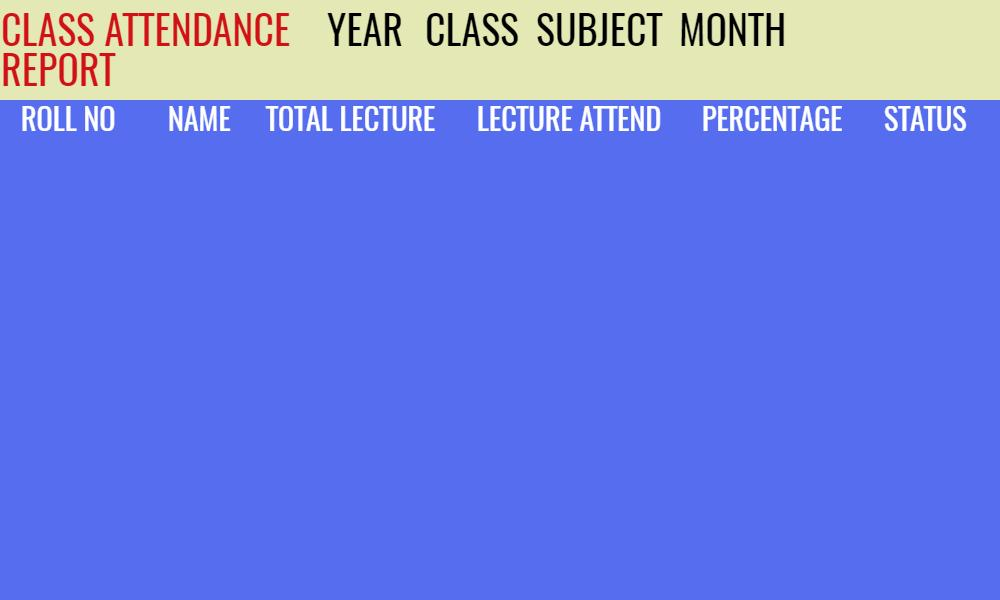
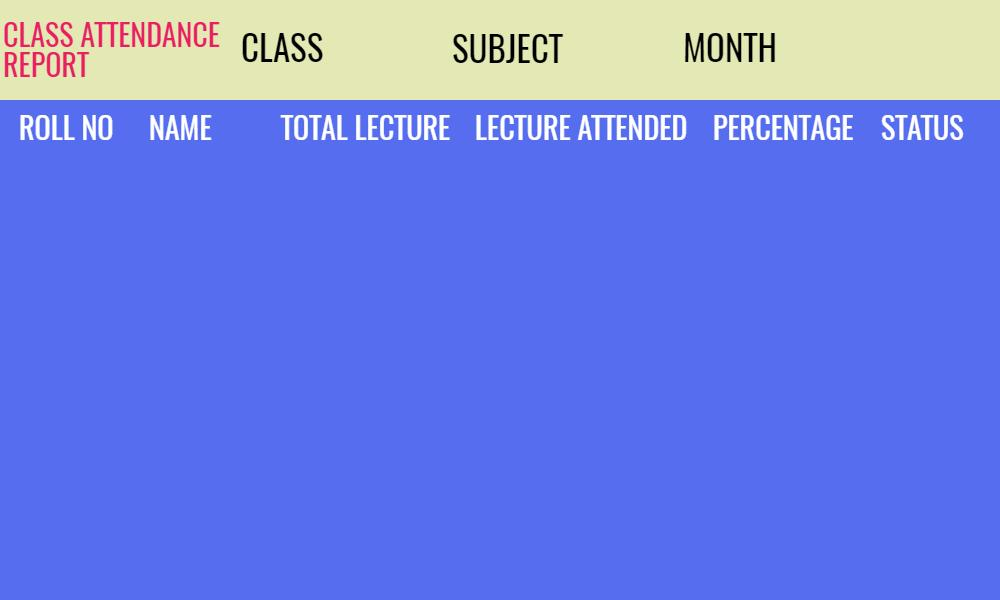
change in image and added other database work

Changed region(s): [[0.0, 0.0, 0.992, 0.24]]

diff --git a/Python_project.py b/Python_project.py
@@ -4,7 +4,9 @@ import mysql.connector
 import fnmatch
 import mysql
 R=Tk()
-    
+
+#--------- CHANGES TO BE DONE OF LINE NUMBER 162------------
+ 
 def new_class(teacher_id):
     
     new_class_frame = Tk()
@@ -95,7 +97,7 @@ def new_class(teacher_id):
     button_home.place(x=900,y=100)
     new_class_frame.mainloop()
 
-    
+#===========================================Pranali(changes to be done here )============================================================    
 def studentReport(teacher_id):
     studentReport_frame = Tk()
     studentReport_frame.resizable(width=FALSE, height=FALSE)
@@ -107,19 +109,169 @@ def studentReport(teacher_id):
     image=ImageTk.PhotoImage(Image_open)
     logo=Label(studentReport_frame,image=image)
     logo.place(x=0,y=0,bordermode="outside")
+
+    data=[]
+    classes=[]
+    li=[]
+    get_class= ''
+    get_month=''
+    get_subject=''
+    #table_frame = Frame(studentReport_frame,height=400,width=800,bg="#3463FF")
+    #table_frame.pack()
+    
+    month= ['JANUARY',
+            'FEBRUARY',
+            'MARCH',
+            'APRIL',
+            'MAY',
+            'JUNE',
+            'JULY',
+            'AUGUST',
+            'SEPTEMBER',
+            'OCTOBER',
+            'NOVEMBER',
+            'DECEMBER',]
+
+   
+    
     def home():
         studentReport_frame.destroy()
         sec_frame(teacher_id)
     
     def search():
-        #-------------------database work----------------------
-        pass
+        global get_class
+        global get_month
+        global get_subject
+        
+            
+
+        
+        try:
+            conn = mysql.connector.connect(host='localhost',database=get_class,user='root',password='root@123')
+            cursor = conn.cursor()
+            statement="select Rollno,Total_Attendance,Attendance from attendance where month= '{0}' and Subject = '{1}'".format(get_month,get_subject)
+            cursor.execute(statement)
+            rows = cursor.fetchall()
+            for row in rows:
+                try:
+                    conn1 = mysql.connector.connect(host='localhost',database=get_class,user='root',password='root@123')
+                    cursor1 = conn1.cursor()
+                    statement1="select name from student where Rollno = {0}".format(row[0])
+                    cursor1.execute(statement1)
+                    name = cursor1.fetchone()
+                    print(name)
+                    print(row[0])
+                #=================================== TABLE GOES HERE =====================================
+                #-------------- row[0] = Rollno, name[0]=name, row[1]=Total Attendance, row[2]=Lecture Attend ---------------------------
+
+                #--------------- make function for calculating Percentage and status ----------------------------------
+
+
+                
+
+                #----------------------- END OF TABLE
+                except:
+                    conn1.rollback()
+                finally:
+                    cursor1.close()
+                    conn1.close()            
+        except:
+            conn.rollback()
+            print("rollnack")
+        finally:
+            cursor.close()
+            conn.close()
+        
+
+    def func_sub(value):
+        global get_subject
+        get_subject = value
+
+
+    def func_month(value):
+        global get_month
+        get_month = value
+        
+    def func(value):
+        global  get_class
+        get_class=value
+        sub = value.split('_')
+        global li
+        li=[]
+        try:
+            conn1 = mysql.connector.connect(host='localhost',database='login',user='root',password='root@123')
+            cursor1 =  conn1.cursor()
+            statement = "select subject from subject_teacher where teacher_id = {0} and class = '{1}' and year = {2}".format(teacher_id,sub[1].upper(),sub[0])
+            cursor1.execute(statement)
+            rows = cursor1.fetchall()
+            for row in rows:
+                print("hell")
+                li.append(row[0])
+            print(li)
+        except:
+            conn1.rollback()
+            print("rollback")
+            
+        finally:
+            if(li):
+                subject = StringVar()
+                #variable.set(classes[0])
+                subject_menu = OptionMenu(studentReport_frame, subject, *li,command=func_sub)
+                subject_menu.config(width=8,font=('arial',12,'bold'))
+                subject_menu.place(x=568,y=32)
+            else:
+                label_roll = Label(newAttendance_frame,font=('arial',12,'bold'),bg="#566DEF",fg="#F00",text="You don't have any subject in this class")
+                label_roll.place(x=400,y=400)
+            
+            cursor1.close()
+            conn1.close()
+
+        
+
+    
+    try:
+        conn = mysql.connector.connect(host='localhost',user='root',password='root@123')
+        cursor =  conn.cursor()
+        statement = "show databases"
+        cursor.execute(statement)
+        rows = cursor.fetchall()
+    except:
+        conn.rollback()
+        print("roll")
+    finally:
+        for row in rows:
+            filtered = fnmatch.filter(row, '20*')
+            if filtered !=[]:
+                data.append(filtered)
+            
+        for i,d in enumerate(data):
+            classes.append(d[0])
+        cursor.close()
+        conn.close()
+
+    monthvar = StringVar()
+    #variable.set(classes[0])
+    month_menu = OptionMenu(studentReport_frame, monthvar, *month,command=func_month)
+    month_menu.config(width=7,font=('arial',9,'bold'))
+    month_menu.place(x=790,y=33)
+    
+    variable = StringVar()
+    #variable.set(classes[0])
+    
+    class_menu = OptionMenu(studentReport_frame, variable, *classes,command=func)
+    class_menu.config(width=7,font=('arial',12,'bold'))
+    class_menu.place(x=330,y=32)
+
+
+    
     button_search = Button(studentReport_frame, text="SEARCH",width=8,height=1,fg="#000",bg="#566DEF",font=('arial',13,'bold'),activebackground='#566DEF',command=search)
-    button_search.place(x=800,y=13)
+    button_search.place(x=900,y=33)
 
     button_home = Button(studentReport_frame, text="HOME",width=6,height=1,fg="#000",bg="#566DEF",font=('arial',13,'bold'),activebackground='#566DEF',command=home)
     button_home.place(x=890,y=13)
     studentReport_frame.mainloop()
+
+#===========================================pranali============================================================   
 
 def newAttendance(teacher_id):
     newAttendance_frame = Tk()
@@ -317,7 +469,9 @@ def newStudent(teacher_id):
     image1=ImageTk.PhotoImage(Image_open1)
     logo1=Label(newStudent_frame,image=image1)
     logo1.place(x=200,y=200,bordermode="outside")
-    
+
+
+#================================= Pranali Year Class database ============================================    
     data=[]
     classes=[]
     try:
@@ -339,13 +493,12 @@ def newStudent(teacher_id):
             classes.append(d[0])
         cursor.close()
         conn.close()
-
+#================================= Pranali Year Class database ============================================ 
          
     def home():
         newStudent_frame.destroy()
         sec_frame(teacher_id)
-
-    
+   
     
     
     entry_fname = Entry(newStudent_frame,font=('arial',20,'bold'),width=16,bg="#E3E8B4",insertwidth=2)
@@ -402,7 +555,8 @@ def newStudent(teacher_id):
         
     
     variable = StringVar()
-    variable.set(classes[0])
+    #variable.set(classes[0])
+    
     class_menu = OptionMenu(newStudent_frame, variable, *classes,command=func)
     class_menu.config(width=19,font=('arial',12,'bold'))
     class_menu.place(x=730,y=368)
